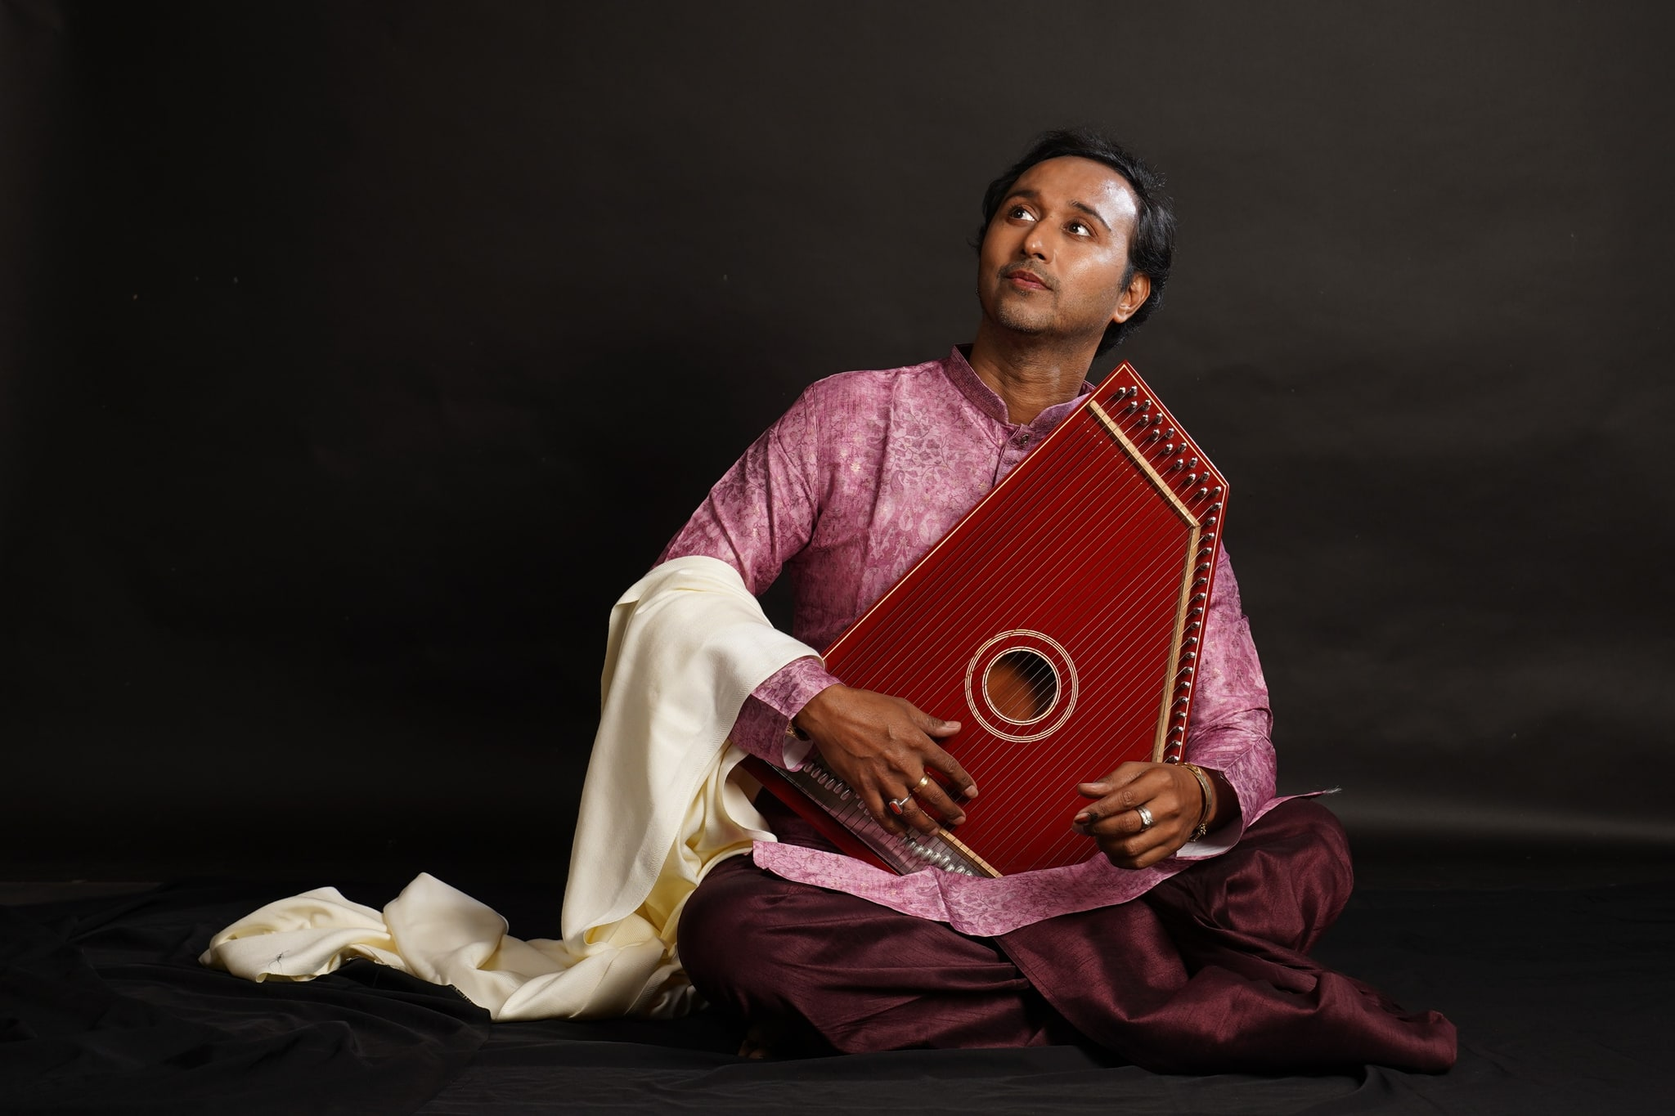
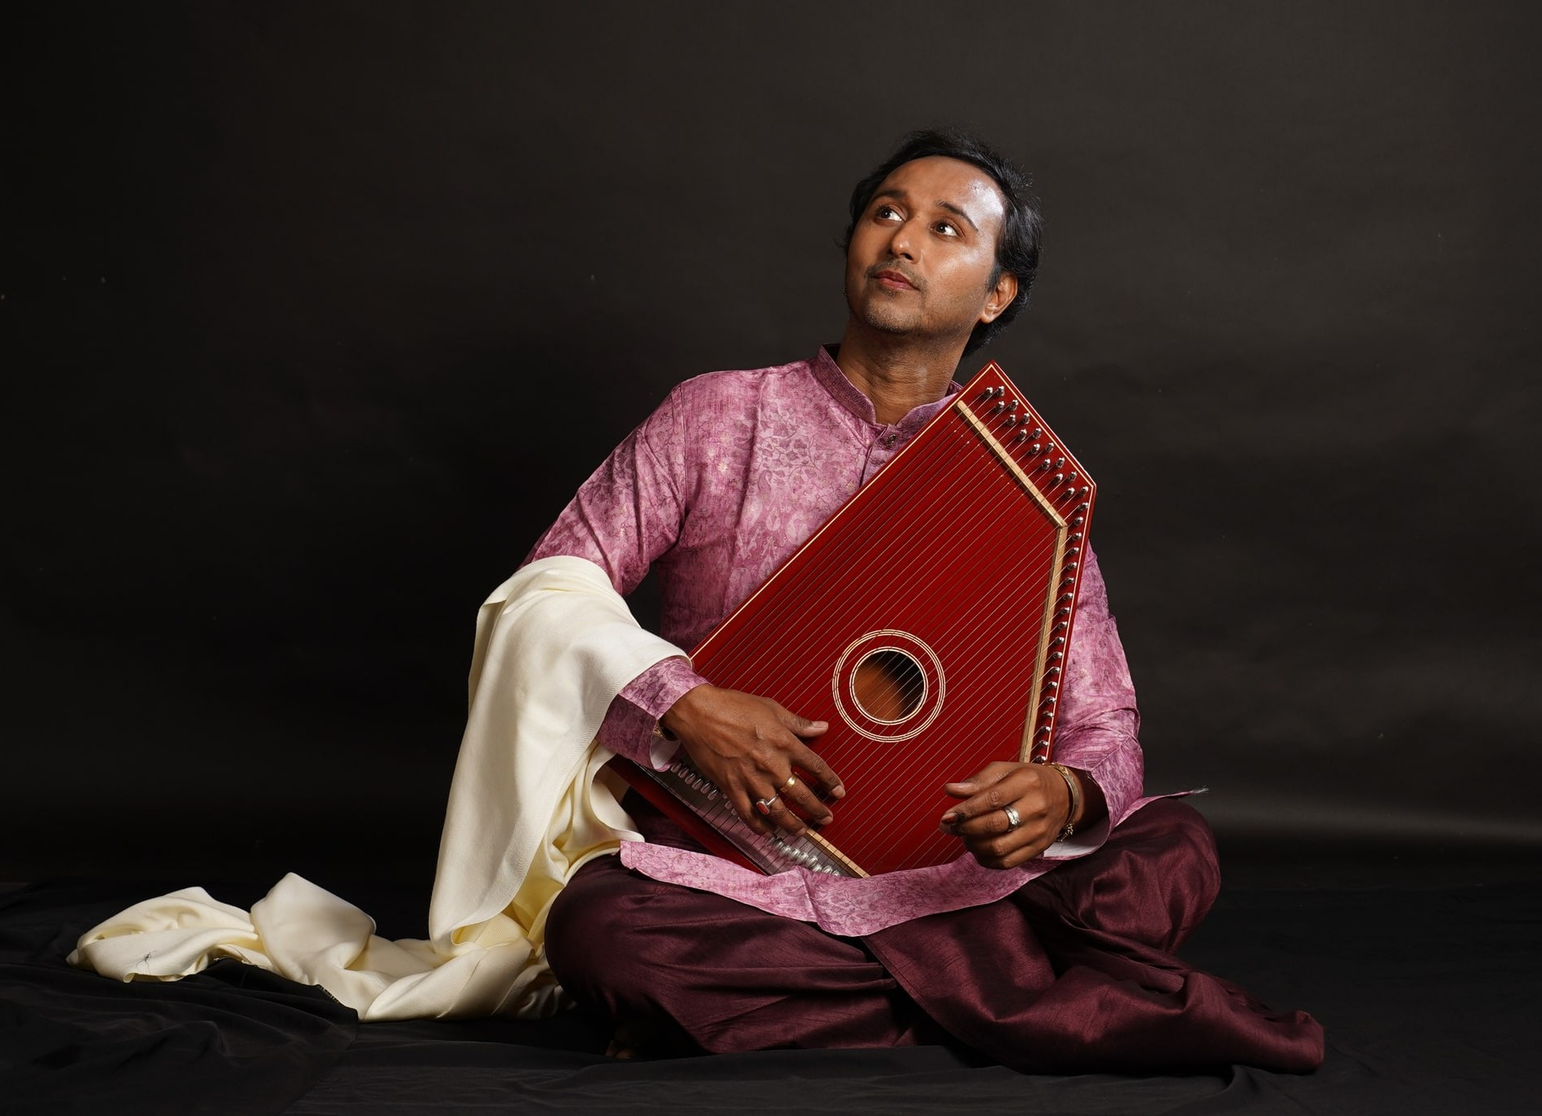
tab changes and mobile img change

Changed region(s): [[0.0308, 0.1231, 0.8918, 0.9538]]

diff --git a/src/pages/AboutMobile.jsx b/src/pages/AboutMobile.jsx
@@ -143,15 +143,21 @@ const AboutMobile = () => {
             Born in the industrial township of{" "}
             <span className="text-[#c9a455]/80 font-normal">Sindri, Jharkhand</span>, into a humble
             and educated Bengali family, Debapriya displayed a natural affinity for the arts from an
-            early age. His introduction to music came through his mother,{" "}
-            <span className="text-[#c9a455]/80 font-normal">Anita Adhikary</span>, a disciple of
-            Pt. Jivnath Jha.
+            early age. His introduction to music did not begin through formal lessons, but through the
+            quiet, immersive world of listening to his mother,{" "}
+            <span className="text-[#c9a455]/80 font-normal">Anita Adhikary</span>, sing and practise at
+            home. A disciple of Pt. Jivnath Jha, affectionately known as Taanraj, she became his very
+            first source of musical inspiration.
           </motion.p>
 
           <motion.p {...fadeUp(0.2)}>
-            She introduced him to Pt. Samaresh Chawdhury of the Senia and Maihar gharanas, who
-            accepted Debapriya as his Gandabandh disciple. From the age of eight, he underwent
-            rigorous training under his guidance for fourteen formative years.
+            Recognising her son's innate sensitivity towards music, she introduced him to
+            Pt. Samaresh Chawdhury of the Senia and Maihar gharanas, who later accepted Debapriya as
+            his Gandabandh disciple. From the age of eight, Debapriya underwent rigorous training under
+            his guidance for fourteen formative years. Throughout this journey, his mother travelled
+            tirelessly between Sindri and Durgapur, never allowing weather, festivals, or circumstance
+            to interrupt his learning — a quiet testament to her unwavering dedication and belief in
+            her son's path.
           </motion.p>
 
           {/* About3 image */}
@@ -171,9 +177,20 @@ const AboutMobile = () => {
             className="font-playfair italic text-[#f0e6d0]/50 text-[0.88rem] leading-[1.8] border-l-2 border-[#c9a455]/30 pl-4"
             {...fadeUp(0.1)}
           >
-            "Mom never allowed any excuse when it came to learning. I remember once she got completely
-            drenched in heavy rain while taking me to the railway station — she remained wet for four
-            hours, yet never suggested skipping the class."
+            "Mom never allowed any excuse when it came to learning. I remember once she got
+            completely drenched in heavy rain while taking me to the railway station — she remained
+            wet, standing near the door for four hours just to dry herself, yet never suggested
+            skipping the class."
+          </motion.p>
+
+          <motion.p {...fadeUp(0.1)}>
+            Under the guidance of Pt. Samaresh Chawdhury, Debapriya cultivated a profound
+            understanding of voice culture, tonal smoothness, and the clarity required to render
+            intricate musical movements with grace and precision. These formative years laid the
+            foundation for the artistic identity that would gradually unfold in the years to come. Yet
+            his training extended far beyond technique alone. It was an education in discipline,
+            patience, humility, and the art of deep listening — values that became inseparable from his
+            music and personality alike.
           </motion.p>
 
           <motion.div className="flex items-center gap-3 pt-1" {...fadeUp(0.1)}>
@@ -182,18 +199,37 @@ const AboutMobile = () => {
           </motion.div>
 
           <motion.p {...fadeUp(0.1)}>
-            Debapriya's journey deepened under the legendary{" "}
-            <span className="text-[#c9a455]/80 font-normal">Padma Vibhushan Dr. Girija Devi</span>{" "}
-            of the Benaras gharana, with whom he trained for eleven transformative years — immersing
-            himself in Thumri, Tappa, Dadra, Kajri and the distinctive khayal gayaki of Benaras.
+            Debapriya's musical journey found deeper expression under the legendary{" "}
+            <span className="text-[#c9a455]/80 font-normal">Padma Vibhushan awardee Dr. Girija Devi</span>{" "}
+            of the Benaras gharana, with whom he trained as a Gandabandh disciple for eleven
+            transformative years. Under her affectionate yet rigorous guidance, he immersed himself in
+            the rich expressive traditions of Thumri, Tappa, Tap-Thumri, Dadra, Kajri, and Jhula, while
+            also absorbing rare compositions and the distinctive khayal gayaki of Benaras. More than
+            repertoire alone, Dr. Girija Devi shaped his artistic vision with emotional depth, inner
+            strength, and an understanding that music must transcend the boundaries of notes and words.
           </motion.p>
 
           <motion.p {...fadeUp(0.1)}>
-            He also received guidance from Pt. Kumar Prasad Mukherjee and Pt. Vijay Kichlu.
-            A torchbearer of the Senia-Banaras tradition, his music is marked by clarity, emotional
-            depth, and technical finesse. An A-Grade Artist of All India Radio, National Film Award
-            recipient, and holder of the President's Award, he continues to train under Pt. Uday
-            Bhawalkar in the nuances of Dhrupad.
+            Through her teachings, he learned to approach music not merely as performance, but as a
+            living expression of experience, devotion, and humanity. He also received guidance from
+            Pt. Kumar Prasad Mukherjee of the Agra and Rampur-Sahaswan traditions, and from
+            Pt. Vijay Kichlu of the Agra gharana, who entrusted him with numerous rare bandishes and a
+            deeply refined understanding of the technical and aesthetic beauty of ragas. A torchbearer
+            of the Senia-Banaras tradition, Debapriya Adhikary's music is marked by a rare balance of
+            tradition and innovation. More than three decades of rigorous training have shaped a style
+            distinguished by clarity, emotional depth, and technical finesse. His command over gamaks,
+            intricate taans, meends, and swargam has earned him admiration from audiences and
+            connoisseurs across the world.
+          </motion.p>
+
+          <motion.p {...fadeUp(0.1)}>
+            An A-Grade Artist of All India Radio, as well as a recipient of the National Film Award and
+            the President's Award, he represents a unique confluence of scholarship, performance, and
+            creative vision. He holds a Master's degree in Music and was awarded the Junior Research
+            Fellowship by the Ministry of Culture, Government of India, for his research on the history
+            of Thumri and the contribution of Girija Devi. Continuing his lifelong pursuit of musical
+            refinement, he is presently training under Pt. Uday Bhawalkar, immersing himself in the
+            profound nuances of Dhrupad.
           </motion.p>
         </div>
       </section>
@@ -228,14 +264,19 @@ const AboutMobile = () => {
             creating, and teaching together for over two decades — both as acclaimed soloists and
             as the distinctive duo <span className="text-[#c9a455]/90 font-normal">DevaSaman</span>.
             Among the very few enduring classical duos in the country, their partnership is built
-            on deep musical understanding, creative synergy, and a shared commitment to preserving
-            Indian classical music for contemporary audiences.
+            on a deep musical understanding, creative synergy, and a shared commitment to preserving
+            and reimagining the beauty of Indian classical music for contemporary audiences.
           </motion.p>
           <motion.p {...fadeUp(0.15)}>
             Together, they have directed the{" "}
             <span className="font-playfair italic text-[#f0e6d0]/55">National Award-winning documentary Girija – A Lifetime in Music</span>{" "}
             and composed music for films, theatre productions, and the Australian feature film{" "}
-            <span className="font-playfair italic text-[#f0e6d0]/55">The Last Warrior</span>.
+            <span className="font-playfair italic text-[#f0e6d0]/55">The Last Warrior</span>. Their
+            performances seamlessly weave together tradition, emotion, and innovation, offering
+            audiences a rich and immersive musical experience. Having toured extensively across India
+            and internationally, they continue to captivate connoisseurs, enthusiasts, and listeners of
+            all generations through concerts, collaborations, and educational initiatives around the
+            world.
           </motion.p>
         </div>
 
@@ -282,27 +323,52 @@ const AboutMobile = () => {
         <div className="space-y-4 font-jost font-light text-[#b8966e] text-sm leading-[1.85] mb-6">
           <motion.p {...fadeUp(0.1)}>
             <span className="font-playfair italic text-[#f0e6d0]/55">Girija – A Lifetime in Music</span>{" "}
-            is a heartfelt tribute by the duo DevaSaman to their revered Gurumaa. The film reflects
-            not only her unparalleled musical brilliance, but also the spiritual depth, warmth, and
-            human simplicity that defined her life and presence.
+            is a heartfelt tribute by the duo DevaSaman to their revered Gurumaa, the legendary Girija
+            Devi. The film reflects not only her unparalleled musical brilliance, but also the spiritual
+            depth, warmth, and human simplicity that defined her life and presence.
           </motion.p>
 
           <motion.p
             className="font-playfair italic text-[#f0e6d0]/50 text-[0.88rem] leading-[1.8] border-l-2 border-[#c9a455]/30 pl-4"
             {...fadeUp(0.15)}
           >
-            "Our thought was to let the world know about her vision, through which she could build
-            a beautiful bridge between the living world and the spiritual realms… Life was never so
-            beautiful until we began to see music through her."
+            "Our thought was to let the world know about her vision, through which she could build a
+            beautiful bridge between the living world and the spiritual realms. She could effortlessly
+            break through paradigms and create beauty with simple words, relating them to daily life.
+            We used to be awestruck by her simplicity, nurtured in the midst of her divinity." … the
+            duo says. "Life was never so beautiful until we began to see music through her, and
+            understand the subtleties she revealed with every word of music she uttered."
             <span className="block mt-2 not-italic font-jost text-[10px] tracking-[0.3em] uppercase text-[#c9a455]/50">
               — Debapriya Adhikary &amp; Samanwaya Sarkar
             </span>
           </motion.p>
 
           <motion.p {...fadeUp(0.1)}>
-            This award-winning documentary features rare interviews with Pt. Ravi Shankar, Kishori
-            Amonkar, Ustad Abdul Rashid Khan, Pt. Birju Maharaj, Ustad Amjad Ali Khan, and many
-            more — making it a valuable resource for students and connoisseurs alike.
+            This nationally and internationally award-winning documentary offers a visual journey
+            through the music, philosophy, ideas, and inspiration of the legendary Girija Devi. More
+            than a musical portrait, it reflects the struggle of a woman navigating the socio-economic
+            transformations of pre- and post-independence India — preserving her artistic integrity
+            within a male-dominated society and emerging as a lasting symbol of strength and grace.
+          </motion.p>
+
+          <motion.p {...fadeUp(0.12)}>
+            The film features rare anecdotes and interviews with stalwarts such as Pt. Ravi Shankar,
+            Kishori Amonkar, Ustad Abdul Rashid Khan, Pt. Birju Maharaj, Ustad Amjad Ali Khan, and
+            Pt. Rajan &amp; Sajan Mishra, among many others, making it a valuable resource for students,
+            connoisseurs, and lovers of Indian classical music.
+          </motion.p>
+
+          <motion.p
+            className="font-playfair italic text-[#f0e6d0]/50 text-[0.88rem] leading-[1.8] border-l-2 border-[#c9a455]/30 pl-4"
+            {...fadeUp(0.14)}
+          >
+            "We are immensely grateful to the entire team of the film, including Madhu Chandra and
+            Sudha Datta as producers; our co-director and editor Sankalp Meshram, cinematographers
+            Naiyer Ghufran and Prabal Bose, sound engineer Partha Sarathi Sanyal, sound mixer Ajay PB
+            and many more, for making this dream project a real historical gem."
+            <span className="block mt-2 not-italic font-jost text-[10px] tracking-[0.3em] uppercase text-[#c9a455]/50">
+              — Debapriya Adhikary &amp; Samanwaya Sarkar
+            </span>
           </motion.p>
         </div>
 
@@ -445,7 +511,7 @@ const AboutMobile = () => {
             className="flex gap-3 py-2"
             style={{ width: "max-content" }}
             animate={{ x: ["0%", "-50%"] }}
-            transition={{ duration: 45, repeat: Infinity, ease: "linear" }}
+            transition={{ duration: 55, repeat: Infinity, ease: "linear" }}
           >
             {MARQUEE_IMGS.map((src, i) => (
               <div

diff --git a/src/pages/LearnMobile.jsx b/src/pages/LearnMobile.jsx
@@ -2,21 +2,22 @@ import { motion } from "framer-motion";
 
 // ── DATA ──────────────────────────────────────────────────
 const WHAT_YOU_LEARN = [
-  { label: "Raga",            detail: "Alaap, jod, jhala and bandish in the khayal tradition" },
-  { label: "Voice Culture",   detail: "Swara placement, shruti sensitivity and resonance" },
-  { label: "Ornamentation",   detail: "Taan, meend, gamak, murki and their expressive use" },
-  { label: "Light Classical", detail: "Thumri, tappa, tap-thumri, dadra, kajri and jhula" },
-  { label: "Layakari",        detail: "Rhythmic nuance — playing with and around tala" },
-  { label: "Bandish",         detail: "Rare compositions from the Benaras and Senia traditions" },
-  { label: "Dhrupad",         detail: "Under the continuing influence of Pt. Uday Bhawalkar's lineage" },
+  { label: "Voice Culture",                                 detail: "Swara placement, shruti sensitivity, breath control, tone production and resonance" },
+  { label: "Palta Practice",                                detail: "Systematic voice training through alankars and paltas designed to strengthen sur, clarity, agility, and vocal stability." },
+  { label: "Basic Ragas with Bandishes",                    detail: "Building a strong foundation in raga structure, phrasing, and presentation." },
+  { label: "Advanced ragas with vilambit and drut bandishes", detail: "focusing on elaboration, layakari, taan development, and performance aesthetics." },
+  { label: "Music forms of Purab Ang",                      detail: " Including khayal, tappa, thumri, dadra, kajri, and jhula." },
+  { label: "Ornamentation",                                 detail: "The expressive use of taan, meend, gamak, and murki." },
+  { label: "Layakari",                                      detail: "Developing rhythmic nuance and an intuitive relationship with tala." },
+  { label: "Bandish Gayaki",                                detail: "Learning rare and traditional compositions along with their stylistic interpretation and presentation." },
 ];
 
 const GURUS = [
-  { name: "Pt. Samaresh Chawdhury",     detail: "Senia & Maihar Gharanas · 14 years" },
-  { name: "Dr. Girija Devi",            detail: "Padma Vibhushan · Benaras Gharana · 11 years" },
+  { name: "Pt. Samaresh Chawdhury",     detail: "Senia & Maihar Gharanas" },
+  { name: "Dr. Girija Devi",            detail: "Padma Vibhushan · Benaras Gharana" },
   { name: "Pt. Kumar Prasad Mukherjee", detail: "Agra & Rampur-Sahaswan traditions" },
   { name: "Pt. Vijay Kichlu",           detail: "Agra Gharana" },
-  { name: "Pt. Uday Bhawalkar",         detail: "Dhrupad tradition · ongoing" },
+  { name: "Pt. Uday Bhawalkar",         detail: "Dhrupad tradition · Dagarbaani" },
 ];
 
 const WORKSHOPS = [
@@ -118,8 +119,9 @@ const LearnMobile = () => (
           <span className="text-[#c9a455]/80 font-normal">National Award-winning artist</span>{" "}
           and torchbearer of the{" "}
           <span className="text-[#c9a455]/80 font-normal">Senia - Banaras</span>{" "}
-          tradition. The training follows an unhurried and deeply personal approach, shaped around
-          each student's voice, pace, and artistic growth.
+          tradition. Drawing from the wisdom of India's great gharanas, the training follows an
+          unhurried and deeply personal approach, shaped around each student's voice, pace, and
+          artistic growth.
         </p>
       </motion.div>
 
@@ -149,11 +151,13 @@ const LearnMobile = () => (
           <p>
             Training is offered both{" "}
             <span className="text-[#c9a455]/80 font-normal">online and in-person</span>,
-            structured around your schedule. Sessions are conducted in Bengali, Hindi, or English.
+            structured around your schedule and pace of learning. Sessions are conducted in Bengali,
+            Hindi, or English.
           </p>
           <p>
             The curriculum unfolds organically — from foundational sur and voice placement into
-            raga grammar, composition, and the subtleties of improvisation.
+            raga grammar, composition, and the subtleties of improvisation. No rigid syllabus; the
+            path is drawn by the student's ear and readiness.
           </p>
         </div>
       </motion.div>

diff --git a/src/pages/GalleryMobile.jsx b/src/pages/GalleryMobile.jsx
@@ -15,21 +15,18 @@ const CARDS = [
 // ── PHOTO CAROUSEL ─────────────────────────────────────────
 const C_GAP = 8;
 const CAROUSEL_IMGS = [
-  { src: "/assets/AG1.jpg",  w: 110, h: 162 },
-  { src: "/assets/AG3.jpg",  w: 148, h: 100 },
-  { src: "/assets/AG5.jpg",  w: 110, h: 145 },
-  { src: "/assets/AG2.jpeg", w: 155, h: 106 },
-  { src: "/assets/GI1.jpeg", w: 110, h: 178 },
-  { src: "/assets/AG4.jpg",  w: 135, h: 96  },
-  { src: "/assets/AG6.jpg",  w: 110, h: 162 },
-  { src: "/assets/GI2.jpeg", w: 152, h: 105 },
-  { src: "/assets/AG7.jpg",  w: 110, h: 134 },
-  { src: "/assets/new20.jpeg",   w: 145, h: 100 },
-  { src: "/assets/new21.jpeg",   w: 145, h: 100 },
-  { src: "/assets/new22.jpeg",   w: 145, h: 100 },
-  { src: "/assets/new23.jpeg",   w: 145, h: 100 },
-  { src: "/assets/new24.jpeg",   w: 145, h: 100 },
-  { src: "/assets/new25.jpeg",   w: 145, h: 100 },
+  { src: "/assets/AG7.jpg",   w: 148, h: 218 },  // portrait
+  { src: "/assets/AG5.jpg",   w: 200, h: 136 },  // landscape
+  { src: "/assets/AG2.jpeg",   w: 148, h: 195 },  // portrait
+  { src: "/assets/AG1.jpg",  w: 212, h: 146 },  // landscape
+  { src: "/assets/GI1.jpeg",  w: 148, h: 240 },  // portrait tall
+  { src: "/assets/T1.jpg",   w: 182, h: 130 },  // landscape compact
+  { src: "/assets/new1.jpeg",   w: 148, h: 218 },  // portrait
+  { src: "/assets/GP1.jpg",  w: 205, h: 142 },  // landscape
+  { src: "/assets/vertical.jpeg",   w: 148, h: 180 },  // portrait short
+  { src: "/assets/concert.jpeg",    w: 196, h: 136 },  // landscape
+  { src: "/assets/AG4.jpg",    w: 148, h: 220 },  // portrait
+  { src: "/assets/T3.jpg",    w: 208, h: 148 },  
  
 
 ];
@@ -108,7 +105,7 @@ const GalleryMobile = () => {
             className="flex gap-3"
             style={{ width: "max-content" }}
             animate={{ x: ["0%", "-50%"] }}
-            transition={{ duration: 20, repeat: Infinity, ease: "linear" }}
+            transition={{ duration: 55, repeat: Infinity, ease: "linear" }}
           >
             {[...CARDS, ...CARDS].map((card, i) => (
               <div
@@ -179,7 +176,7 @@ const GalleryMobile = () => {
           className="flex items-end"
           style={{ gap: C_GAP, width: "max-content" }}
           animate={{ x: [0, -C_TRACK_W] }}
-          transition={{ duration: 50, repeat: Infinity, ease: "linear", repeatType: "loop" }}
+          transition={{ duration: 55, repeat: Infinity, ease: "linear", repeatType: "loop" }}
         >
           {[...CAROUSEL_IMGS, ...CAROUSEL_IMGS].map((img, i) => (
             <div

diff --git a/src/components/AboutTeaser/AboutTeaserMobile.jsx b/src/components/AboutTeaser/AboutTeaserMobile.jsx
@@ -51,7 +51,9 @@ const AboutTeaserMobile = () => (
         <em className="text-[#c9a455]/80 not-italic font-normal">Senia - Banaras</em>{" "}
         tradition and an{" "}
         <em className="text-[#c9a455]/80 not-italic font-normal">A-Grade Artist of All India Radio</em>
-        , whose art carries the quiet weight of a tradition he has spent a lifetime learning and living.
+        , whose art carries the quiet weight of a tradition he has spent a lifetime learning and
+        living. His performances move between the intimacy of a late-night riyaz and the commanding
+        presence of a grand concert stage.
       </motion.p>
 
       <motion.p
@@ -61,9 +63,11 @@ const AboutTeaserMobile = () => (
         viewport={{ once: true, margin: "-40px" }}
         transition={{ duration: 1, ease: [0.22, 1, 0.36, 1], delay: 0.18 }}
       >
-        Beyond music, he is a composer, filmmaker, educator, and producer. His documentary{" "}
+        Beyond music, he is a composer, filmmaker, educator, and producer — a rare polymath of the
+        classical world. His documentary{" "}
         <em className="text-[#c9a455]/80 not-italic font-normal">Girija – A Lifetime In Music</em>{" "}
-        earned him the National Film Award in 2018, presented by the President of India.
+        earned him the National Film Award in 2018, presented by the President of India, cementing his
+        place as a guardian of living cultural heritage.
       </motion.p>
     </div>
 

diff --git a/src/pages/Home.jsx b/src/pages/Home.jsx
@@ -22,7 +22,7 @@ const Home = () => {
       <div className="hidden md:block"><LearnSection /></div>
       <LearnSectionMobile />
 
-      <div className="hidden md:block"><GalleryTeaser /></div>
+      <div className="hidden lg:block"><GalleryTeaser /></div>
       <GalleryTeaserMobile />
     </>
   );

diff --git a/src/components/Gallery/GalleryTeaserMobile.jsx b/src/components/Gallery/GalleryTeaserMobile.jsx
@@ -78,7 +78,7 @@ const GalleryTeaserMobile = () => {
   const [lightboxIdx, setLightboxIdx] = useState(null);
 
   return (
-    <section className="md:hidden py-8">
+    <section className="lg:hidden py-8">
 
       {/* Header */}
       <motion.div
